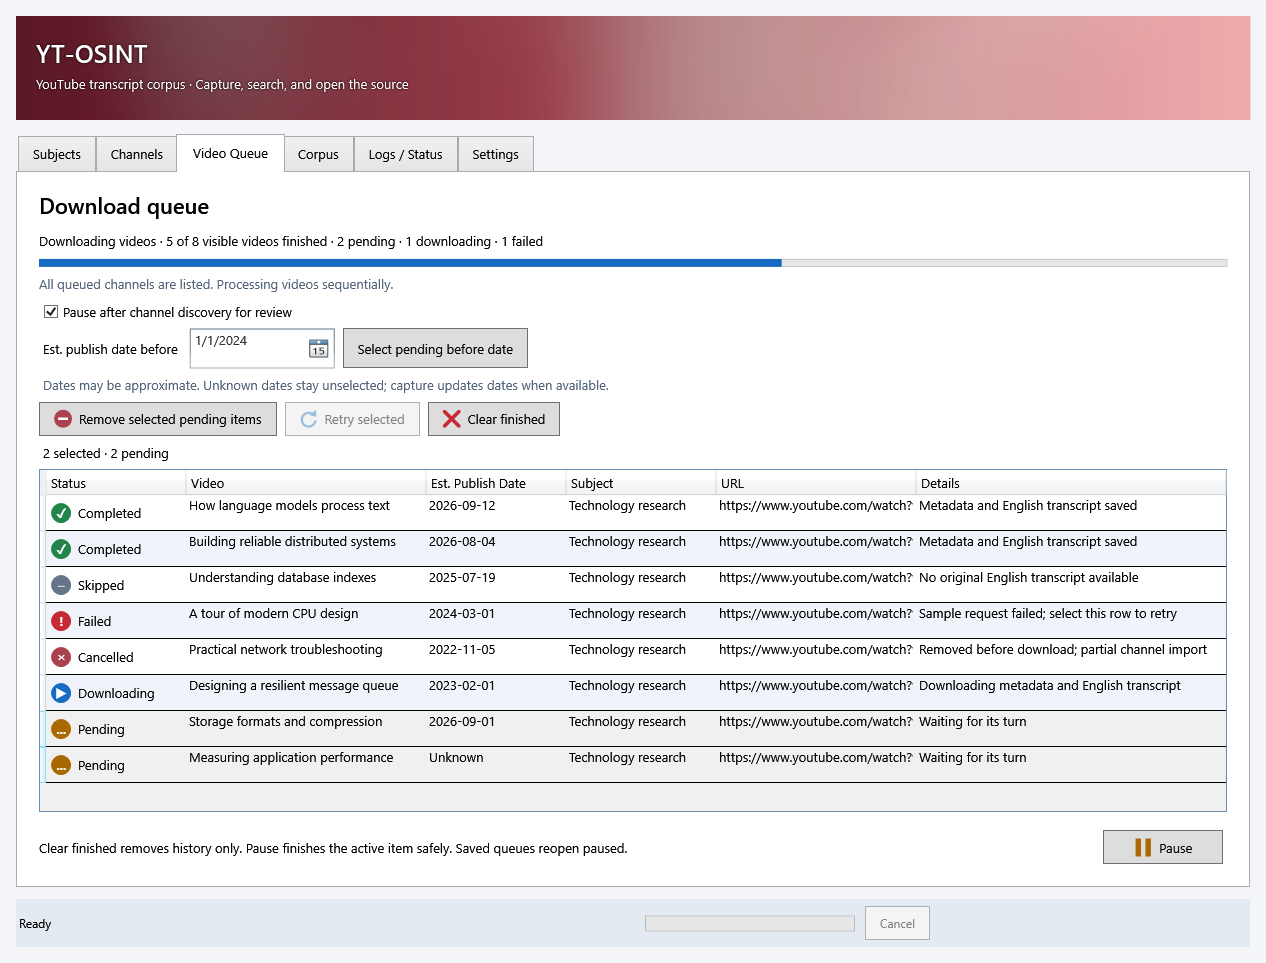
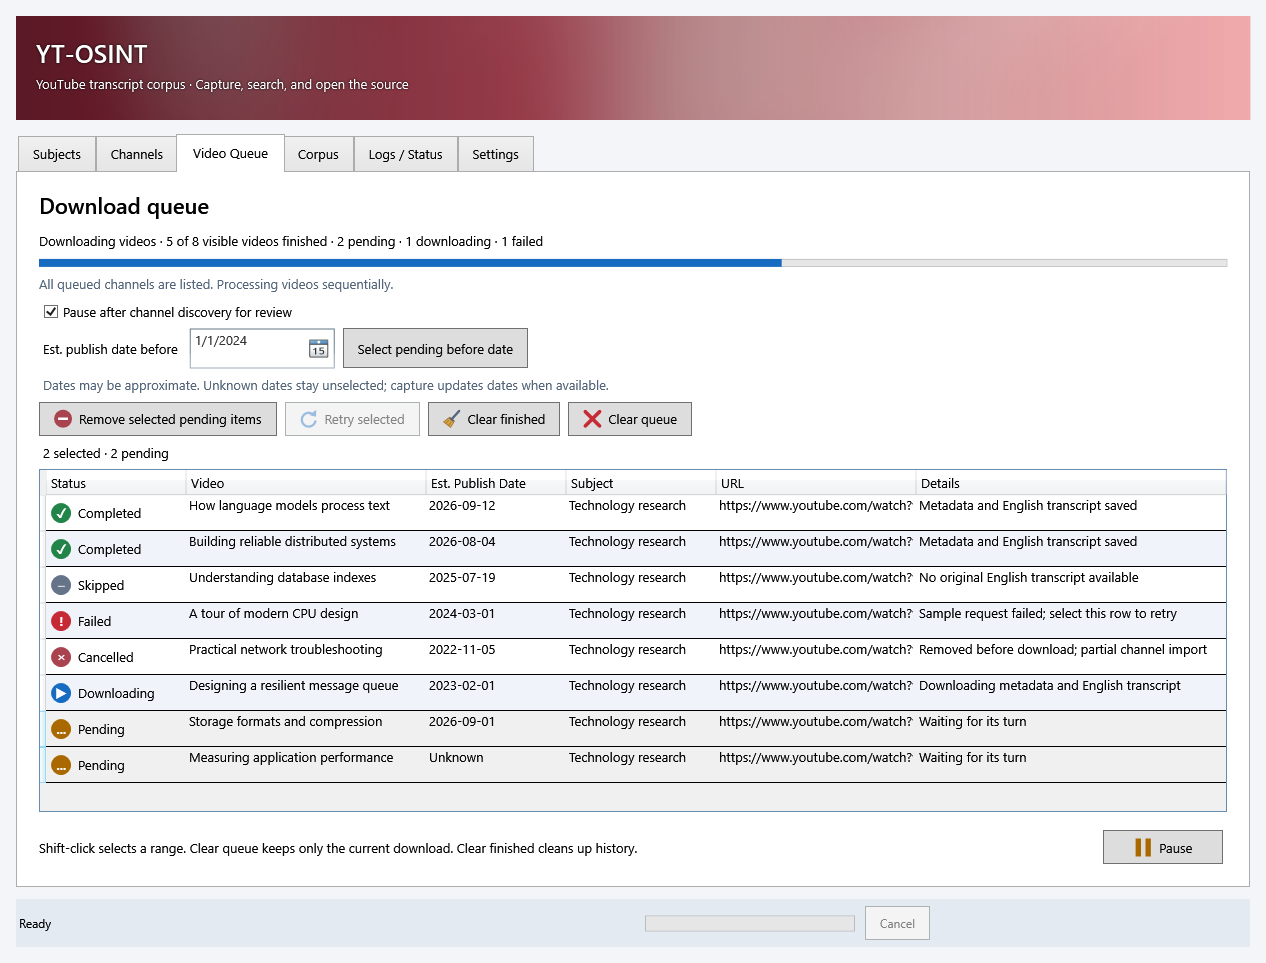
Add one-click queue clearing and broom history cleanup

Changed region(s): [[0.0308, 0.8723, 0.4929, 0.9034], [0.4313, 0.405, 0.5545, 0.4673]]

diff --git a/src/Corpus.Gui.xaml b/src/Corpus.Gui.xaml
@@ -45,11 +45,11 @@
 <CheckBox x:Name="QueueReview" Content="Pause after channel discovery for review" IsChecked="True" Margin="8,4" ToolTip="Applied when Start is pressed. Discover all queued channels, then pause before downloading. Press Start again after reviewing."/>
 <WrapPanel><TextBlock Text="Est. publish date before" VerticalAlignment="Center" Margin="8,4"/><DatePicker x:Name="QueueBefore" Width="145" Margin="4"/><Button x:Name="QueueSelectBefore" Content="Select pending before date" ToolTip="Replace the selection with pending videos strictly before this date across all channels. Unknown dates stay unselected."/></WrapPanel>
 <TextBlock Text="Dates may be approximate. Unknown dates stay unselected; capture updates dates when available." Foreground="#52657A" Margin="8,4" TextWrapping="Wrap"/>
-<WrapPanel><Button x:Name="QueueRemove" Content="Remove selected pending items"/><Button x:Name="QueueRetry" Content="Retry selected"/><Button x:Name="QueueClear" Content="Clear finished" ToolTip="Clear completed, skipped, cancelled and failed rows. Pending/running work and captured files are preserved."/></WrapPanel>
+<WrapPanel><Button x:Name="QueueRemove" Content="Remove selected pending items"/><Button x:Name="QueueRetry" Content="Retry selected"/><Button x:Name="QueueClear" Content="Clear finished" ToolTip="Clean up completed, skipped, cancelled and failed rows. Pending/running work and captured files are preserved."/><Button x:Name="QueueClearAll" Content="Clear queue" ToolTip="Remove all queue rows except the current download, cancel channel discovery, and pause the queue. The current download may finish; captured files are preserved."/></WrapPanel>
 <TextBlock x:Name="QueueSelection" Margin="8,4"/>
 </StackPanel>
 <Grid DockPanel.Dock="Bottom" Margin="4,10,4,0"><Grid.ColumnDefinitions><ColumnDefinition Width="*"/><ColumnDefinition Width="Auto"/></Grid.ColumnDefinitions>
-<TextBlock Text="Clear finished removes history only. Pause finishes the active item safely. Saved queues reopen paused." TextWrapping="Wrap" VerticalAlignment="Center" Margin="0,0,20,0"/>
+<TextBlock Text="Shift-click selects a range. Clear queue keeps only the current download. Clear finished cleans up history." TextWrapping="Wrap" VerticalAlignment="Center" Margin="0,0,20,0"/>
 <Button x:Name="QueueToggle" Grid.Column="1" Content="Start" MinWidth="120" ToolTip="Start the entire queue. Queued channels are listed before video downloads."/>
 </Grid>
 <q:QueueGrid x:Name="QueueGrid" Style="{StaticResource {x:Type DataGrid}}" SelectionMode="Extended" SelectionUnit="FullRow" AutoGenerateColumns="False" Margin="4" RowHeight="36" ScrollViewer.CanContentScroll="True" VirtualizingPanel.IsVirtualizing="True" VirtualizingPanel.VirtualizationMode="Recycling"><DataGrid.Columns>

diff --git a/src/Corpus.Icons.xaml b/src/Corpus.Icons.xaml
@@ -35,6 +35,12 @@
   <DrawingImage x:Key="Play"><DrawingImage.Drawing><GeometryDrawing Brush="#23844A" Geometry="M 4,2 L 21,12 L 4,22 Z"/></DrawingImage.Drawing></DrawingImage>
   <DrawingImage x:Key="Pause"><DrawingImage.Drawing><GeometryDrawing Brush="#A96900" Geometry="M 4,2 H 10 V 22 H 4 Z M 15,2 H 21 V 22 H 15 Z"/></DrawingImage.Drawing></DrawingImage>
   <DrawingImage x:Key="Clear"><DrawingImage.Drawing><GeometryDrawing Geometry="M 4,4 L 20,20 M 20,4 L 4,20"><GeometryDrawing.Pen><Pen Brush="#C52A35" Thickness="4" StartLineCap="Round" EndLineCap="Round"/></GeometryDrawing.Pen></GeometryDrawing></DrawingImage.Drawing></DrawingImage>
+  <DrawingImage x:Key="Broom"><DrawingImage.Drawing><DrawingGroup>
+    <GeometryDrawing Geometry="M 12,12 L 21,2"><GeometryDrawing.Pen><Pen Brush="#52657A" Thickness="3" StartLineCap="Round" EndLineCap="Round"/></GeometryDrawing.Pen></GeometryDrawing>
+    <GeometryDrawing Brush="#D9A441" Geometry="M 9,10 L 15,15 L 10,23 L 1,16 Z"><GeometryDrawing.Pen><Pen Brush="#9C7128" Thickness="1" LineJoin="Round"/></GeometryDrawing.Pen></GeometryDrawing>
+    <GeometryDrawing Geometry="M 8,14 L 4,18 M 11,16 L 7,21"><GeometryDrawing.Pen><Pen Brush="#9C7128" Thickness="1"/></GeometryDrawing.Pen></GeometryDrawing>
+    <GeometryDrawing Geometry="M 9,11 L 14,15"><GeometryDrawing.Pen><Pen Brush="#52657A" Thickness="2.5"/></GeometryDrawing.Pen></GeometryDrawing>
+  </DrawingGroup></DrawingImage.Drawing></DrawingImage>
   <DrawingImage x:Key="Remove"><DrawingImage.Drawing><DrawingGroup><GeometryDrawing Brush="#A94350"><GeometryDrawing.Geometry><EllipseGeometry Center="12,12" RadiusX="11" RadiusY="11"/></GeometryDrawing.Geometry></GeometryDrawing><GeometryDrawing Geometry="M 6,12 H 18"><GeometryDrawing.Pen><Pen Brush="White" Thickness="3"/></GeometryDrawing.Pen></GeometryDrawing></DrawingGroup></DrawingImage.Drawing></DrawingImage>
   <DrawingImage x:Key="Retry"><DrawingImage.Drawing><DrawingGroup><GeometryDrawing Geometry="M 19,7 A 9,9 0 1 0 21,15"><GeometryDrawing.Pen><Pen Brush="#176BC1" Thickness="3" StartLineCap="Round" EndLineCap="Round"/></GeometryDrawing.Pen></GeometryDrawing><GeometryDrawing Brush="#176BC1" Geometry="M 13,7 L 22,9 L 22,0 Z"/></DrawingGroup></DrawingImage.Drawing></DrawingImage>
 </ResourceDictionary>

diff --git a/docs/QUEUE.md b/docs/QUEUE.md
@@ -20,6 +20,10 @@ Each job and video stores stable subject IDs. Changing UI selection never reassi
 
 ## Manage work
 
+To stop a large queue in one click, use **Clear queue** (red X), beside **Clear finished** (broom). Clear queue immediately removes every row except the current download, cancels pending and active channel discovery, and pauses the scheduler. The current download finishes normally and its result stays visible. Late discovery results cannot refill the cleared queue. Captured files stay intact. Channel imports with removed pending videos retain partial outcomes; channel discoveries that were abandoned are cancelled. A fresh channel sync can add the videos again.
+
+For selective removal, sort the table, click the first row, scroll to the last row, and Shift-click it to select the range. Then press **Remove selected pending items** once. Running and finished rows in the range are skipped. Ctrl+click toggles individual rows and Ctrl+A selects all rows. The optional date-cutoff control offers another way to select a batch.
+
 ### Review older videos before capture
 
 **Pause after channel discovery for review** is checked by default each time the window opens. The choice applies when Start is pressed and cannot be changed while that worker is running. Start lists every queued channel, then pauses before claiming a video. Sort **Est. Publish Date** oldest-first or newest-first, review the list, and press Start again to capture the remaining videos. Adding more channels and starting again discovers those channels and pauses for another review. Uncheck the option before starting for uninterrupted discovery and downloads. Batch-only work without new channel discovery starts normally.
@@ -33,7 +37,8 @@ Choose a date and press **Select pending before date** to replace the selection 
 | ▶ Start / ⏸ Pause | One button at the bottom right controls the entire list. Start discovers all queued channels before downloading videos. Pause finishes the active discovery/download safely, displays disabled **Pausing…**, and starts nothing else. Once idle, the button says Start; it is disabled when no work remains. |
 | Remove selected pending items | Ctrl+click, Shift+click, Shift+arrow or Ctrl+A selects rows. Remove all selected Pending items atomically; skip Running/finished/missing items. Sync-linked items remain as Cancelled history and their jobs become partial channel imports. |
 | Retry selected | Retry a Failed/Cancelled video as an independent item, preserving its assignment and refreshing its subject name. When its sync is still active, the original failure remains in history for accurate sync totals. |
-| Red X · Clear finished | Remove **all** Completed, Skipped, Failed and Cancelled rows immediately, including rows linked to active channel jobs. Preserve Pending/Running rows, captures, and compact channel outcome counts. Cleared failed rows cannot be retried from history; add their URLs or queue the channel again. |
+| Broom · Clear finished | Clean up **all** Completed, Skipped, Failed and Cancelled rows immediately, including rows linked to active channel jobs. Preserve Pending/Running rows, captures, and compact channel outcome counts. Cleared failed rows cannot be retried from history; add their URLs or queue the channel again. |
+| Red X · Clear queue | Remove all rows except Running, cancel channel discovery, and pause. The current download finishes normally. Preserve captured files and compact channel outcome counts, including cancellations for removed pending videos. Works without selecting rows and while discovery is still running. |
 | Channels → Cancel sync | Stop discovery and cancel downloads belonging only to that sync that have not started. Shared batch downloads remain. An active video is allowed to finish before the channel unlocks. |
 
 Every row has a colored emoji-style badge and text: amber **Pending**, blue **Downloading** (persisted as Running), green **Completed**, gray **Skipped**, red **Failed**, and a muted-red **Cancelled** X. Vector-backed colors render reliably in Windows PowerShell/WPF without depending on color-emoji font support. Button icons distinguish Start, Pause, Remove, Retry and Clear. Skipped includes members-only videos and videos without eligible original English captions. Failures remain visible and retryable but do not permanently lock a channel. After failed discovery, queue the channel again. An empty channel can complete successfully only when discovery returns no extractor warnings.
@@ -69,6 +74,8 @@ The batch launcher enables background garbage collection for its child process (
 Completed acquisition and foreground runspaces are disposed on a background task. Closing the window waits for outstanding cleanup before restoring the host's garbage-collection policy. This keeps execution-context cleanup out of dispatcher callbacks without changing the acquisition lock or recovery rules.
 
 Persistence remains atomic `queue.json`, and acquisition remains a sequential background runspace in the application process. No database, service, broker, or new package is required. Whole-file persistence and snapshots still scale with queue size, and all row data remains in memory. These are throughput/memory limits to measure before a future indexed storage migration; this change does not claim constant-time persistence or downloads that continue after closing the UI.
+
+Clear queue uses one queue/configuration-lock transaction to pause, cancel pending/discovering channel jobs, accumulate each removed row's result, and retain only Running rows. Pending removals count as Cancelled and mark their linked imports partial. The UI then signals cancellation scoped to channel discovery, leaving the video downloader untouched. Discovery completion re-finalizes a cancelled job after resolving its channel ID so a late channel record cannot remain Queued. The existing incremental/bulk-removal UI path applies the resulting snapshot.
 
 `Corpus.Queue.psm1` stores video `Items`, channel `SyncJobs`, and a discovery group (`DiscoveryJobIds`) for progress. Legacy queue files gain these fields in memory. Each job stores `ClearedResults` counts for completed, skipped, failed and cancelled children. Clear finished adds counts under the same queue/configuration lock before atomically removing terminal rows. Finalization uses both remaining rows and these counts, so clearing or restarting cannot turn partial work into a successful full sync. Video `JobIds` link shared work; `Batch` retains an independent batch claim. Discovery uses the same channel parser as CLI sync with `DiscoverOnly`, preserving channel names, IDs, raw listings, membership hints, and ownership checks. Each downloaded video still goes through `Corpus.Operations.psm1` and its run logging. CLI actions continue to execute directly under the same exclusive corpus lock.
 

diff --git a/docs/VALIDATION.md b/docs/VALIDATION.md
@@ -63,7 +63,7 @@ Local searches scan per-video JSON; there is no database index. Viewer rows are 
 
 ## Large-queue responsiveness
 
-`Invoke-QueuePerformanceIntegration.ps1` defaults to isolated 12,000-, 50,000-, and 100,000-row fixtures, using the same background-GC host configuration as the app launcher. It drives the actual WPF window through background loading, scrolling, programmatic text edits, sorting, a one-row background update, history clearing with 1,001 selected pending rows, removal of 3,000–5,000 selected pending rows in one command, a simulated active download and pause. It checks row/collection identity, selection and sort retention, actual container virtualization, cached counts, host GC-policy restoration and absence of unrelated corpus refreshes. JSON persistence, locks and scheduler behavior are real; acquisition alone is simulated. Run integrations sequentially.
+`Invoke-QueuePerformanceIntegration.ps1` defaults to isolated 12,000-, 50,000-, and 100,000-row fixtures, using the same background-GC host configuration as the app launcher. It drives the actual WPF window through background loading, scrolling, programmatic text edits, sorting, a one-row background update, history clearing with 1,001 selected pending rows, removal of 3,000–5,000 selected pending rows in one command, and Clear queue while a simulated download is active. It verifies that thousands of remaining pending rows disappear, the current download finishes, and the queue stays paused with only its completed row. It also checks row/collection identity, selection and sort retention, actual container virtualization, cached counts, host GC-policy restoration and absence of unrelated corpus refreshes. JSON persistence, locks and scheduler behavior are real; acquisition alone is simulated. Run integrations sequentially.
 
 An Input-priority dispatcher probe samples every 20 ms, reporting additional scheduling delay, with a 95th-percentile budget of 100 ms and maximum of 1,000 ms. This detects stalls, but is not a hardware-independent guarantee of keyboard or mouse latency. Sort time and maximum collection-application slice time are reported separately. Machine load, WPF layout, garbage collection and storage affect timings. Results are saved to ignored `work/queue-performance-results.json`.
 
@@ -94,6 +94,10 @@ Local validation on 2026-09-27 for branding and date review: PowerShell source p
 The fixture suite verifies discovery before even older batch URLs, shared video deduplication across discovered channels, discovery of channels added mid-download, and safe pause/resume between discoveries. Clear-finished tests cover every terminal state, shared active jobs, repeated clearing, persistence/reload, accurate failure totals, preserved previous full-sync timestamps, and successful finalization after successful history is cleared. Progress tests distinguish discovery counts from visible video counts.
 
 `Invoke-DiscoveryQueueIntegration.ps1` tests the actual WPF Start/Pause/Pausing button, its bottom-right placement and action icons, discovery/download progress, every colored row badge, and clearing terminal rows during active downloads. It checks that no channel discovery is left behind the completed downloads and that cleared failures still produce partial channel outcomes.
+
+It also checks the broom cleanup icon and adjacent red-X Clear queue control. A second isolated window clears during blocked discovery and verifies that discovery stops, remaining channel jobs are cancelled, no video starts, and recovery stays empty and paused. Fixture tests additionally exercise a late successful listing after clearing, shared result accounting, repeated clearing, preserving the current download, and retaining the previous full-sync timestamp for partial outcomes.
+
+Local validation on 2026-09-27 for Clear queue: source parsing, all 154 fixture tests, and all seven WPF scripts passed. With 12,000 initial rows, the performance check removed 3,000 selected pending rows, then cleared the remaining 7,799 waiting rows while retaining the active download. P95 extra dispatcher delay was 27.0 ms and the maximum was 344.9 ms, within the existing budgets. Acquisition used isolated local adapters.
 
 `Invoke-SelectionStorageIntegration.ps1` verifies multi-selection retention during refresh, bulk pending removal, preservation of unsaved subject edits, freshness preferences saved to an isolated profile, switch/create, verified relocation, and a real restart into the moved corpus with the queue paused. Storage fixtures test validation, source/destination runner locks, copied-file verification, and rejection of an incomplete copy.
 

diff --git a/README.md b/README.md
@@ -112,6 +112,8 @@ The main Cancel button applies to a foreground operation such as search. The que
 
 ## Queue selection, status, and storage settings
 
+**Clear queue** (red X) empties the entire queue except the current download, cancels channel discovery, and pauses further work. The current download finishes normally; captured files are kept. **Clear finished** (broom), beside it, only cleans up finished history. For selective pruning, sort the list, click a row, scroll and Shift-click another, then use **Remove selected pending items** to remove that range in one action. No row selection is needed to clear the whole queue. Removed pending videos preserve partial channel results, and cancelled discovery cannot refill the queue.
+
 **Pause after channel discovery for review** is enabled by default. Queue your channels and press Start to list them all; the queue pauses before video capture. Sort **Est. Publish Date**, choose a cutoff, and use **Select pending before date**, then **Remove selected pending items** to prune older videos across channels. Press Start again to capture the remaining work. Unknown dates stay unselected. Dates from discovery can be inaccurate; cached or captured publication dates replace them when available. This uses fast channel listings without an additional metadata request per video. Uncheck the review option before starting for uninterrupted processing. Sorting changes the display only; the cutoff is not a saved exclusion rule for future syncs. See the [review workflow](docs/QUEUE.md#review-older-videos-before-capture).
 
 Start lists **all** queued channels before processing any video, including earlier batch URLs. Discovery and downloads stay sequential. New channels added during a download are listed after that item and before the next video. Discovery failures are reported and resolved without a later automatic retry; rate limits pause the queue and leave discovery pending. Queue-local progress shows channels listed/resolved during discovery, then finished/pending/downloading/failed counts for the visible video list. Clearing rows changes those visible-list counts. These counts are not an ETA.
